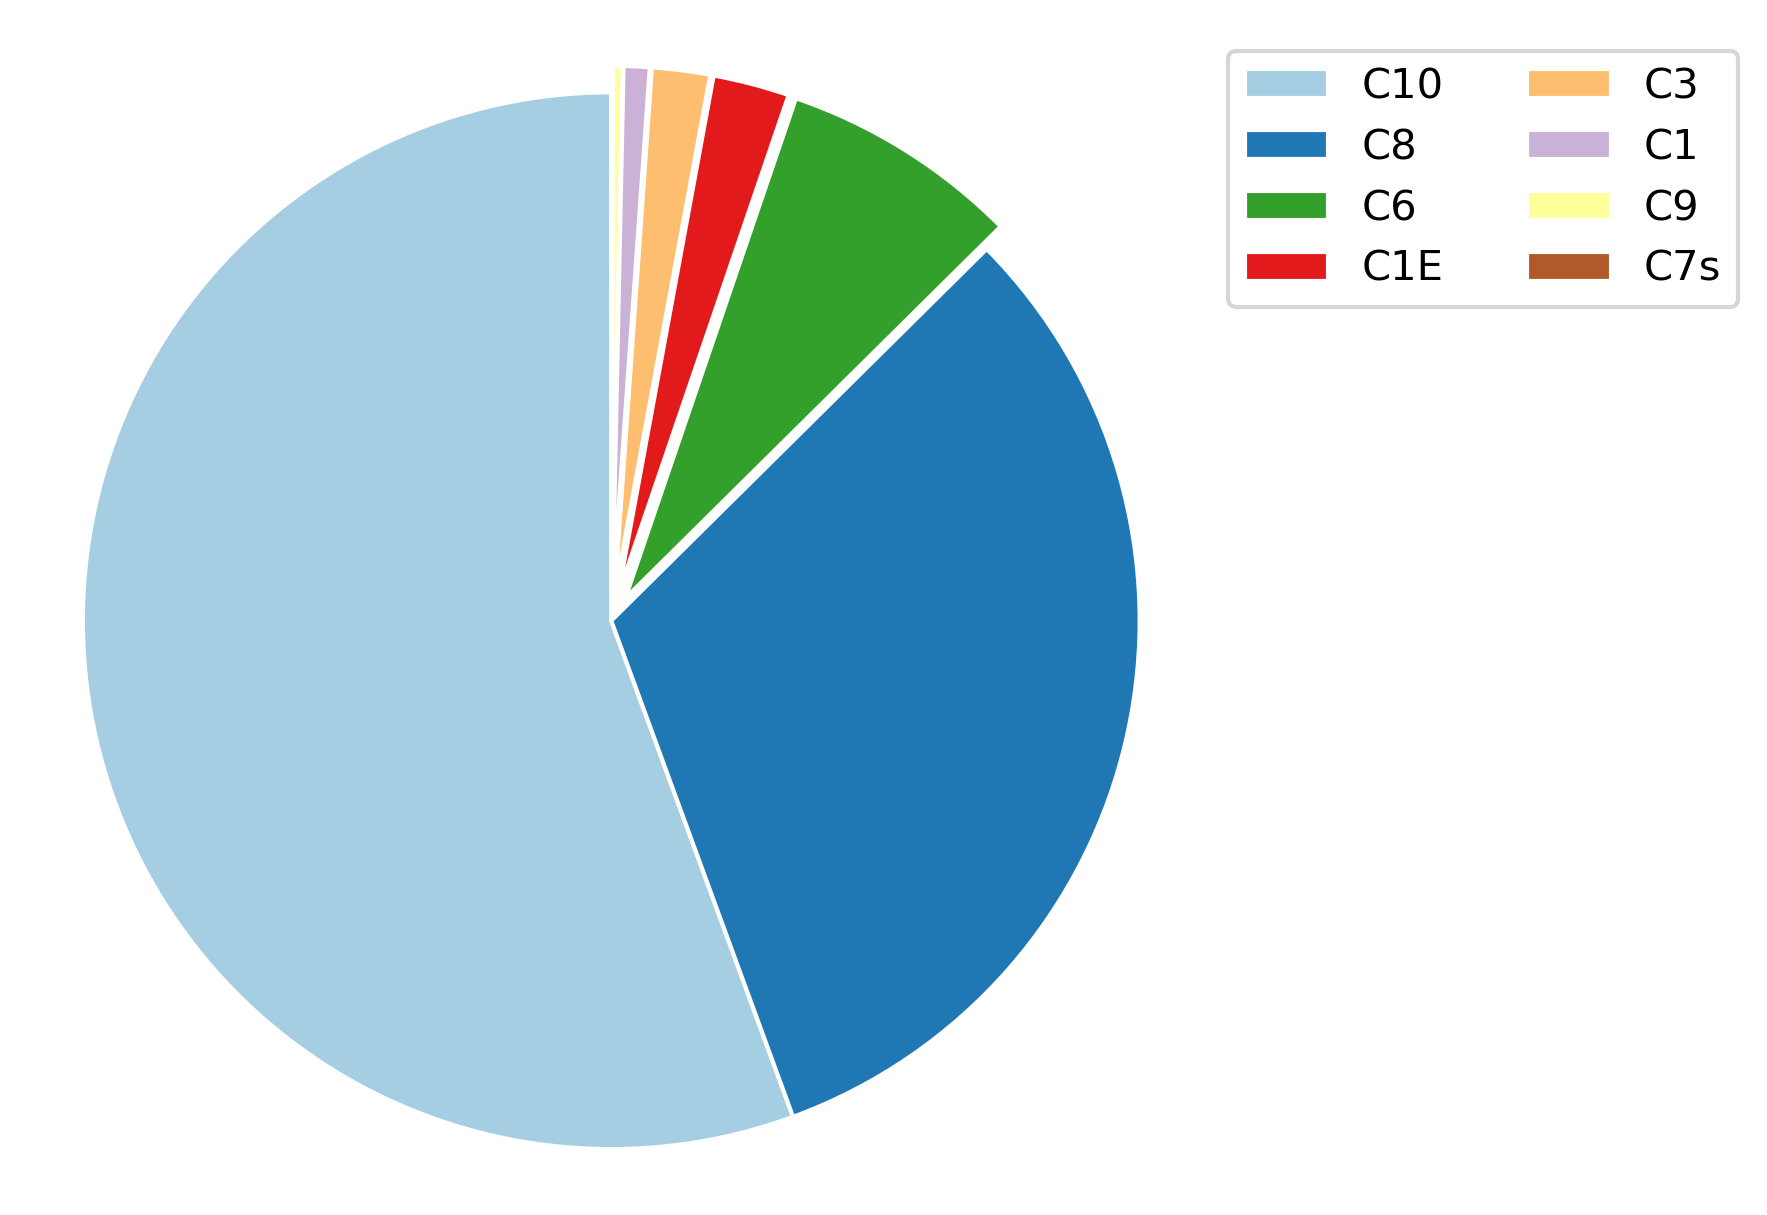
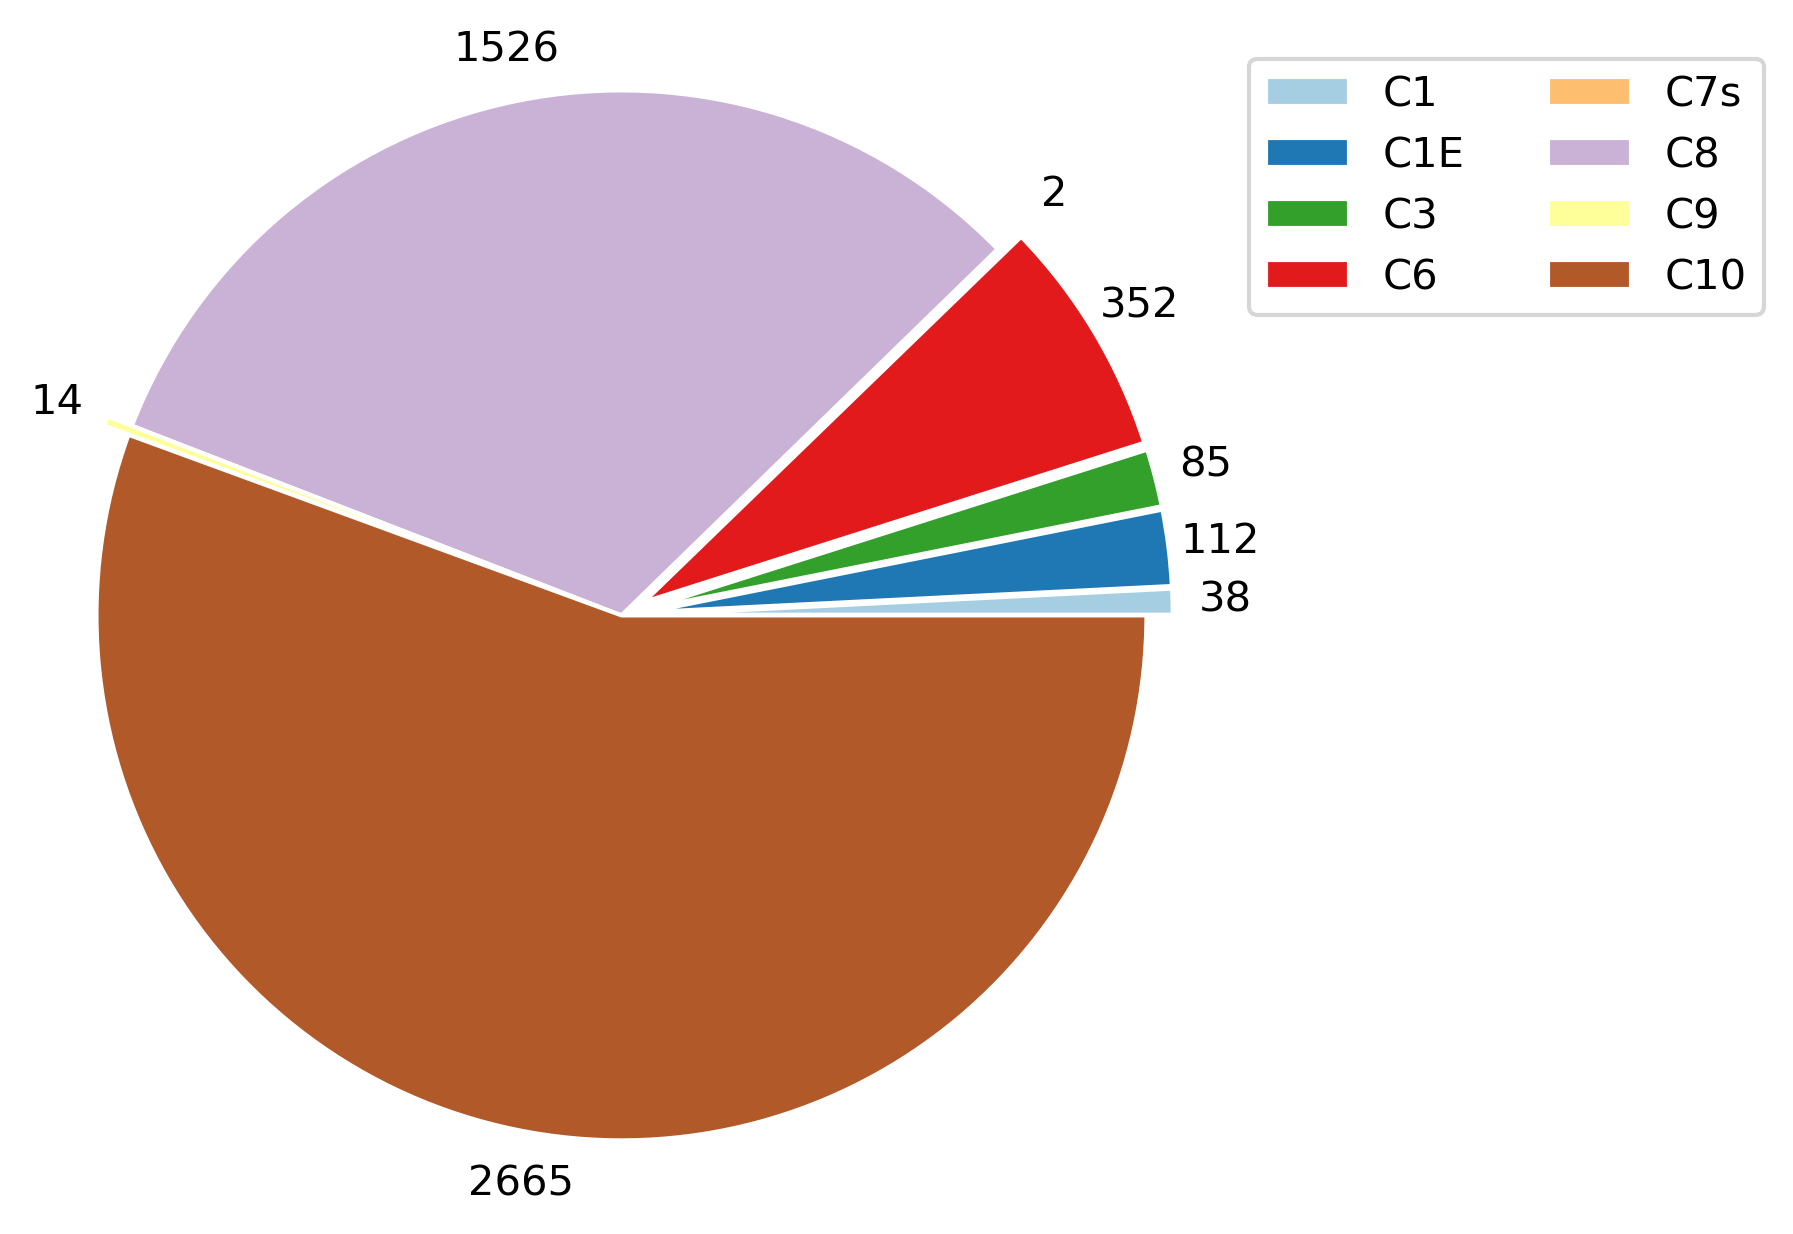
idle-gov: pie entry add absolute value print

diff --git a/images/idle-governor/idle-governor-cstate-pie.py b/images/idle-governor/idle-governor-cstate-pie.py
@@ -4,6 +4,7 @@ import os
 import pandas as pd
 import numpy as np
 import matplotlib.pyplot as plt
+import re
 
 FILE_BASE = os.path.splitext(__file__)[0]
 FILE_DATA = FILE_BASE + ".txt"
@@ -12,25 +13,27 @@ FILE_PDF  = FILE_BASE + ".pdf"
 
 lineprops = {"linewidth": 1, "edgecolor": "white"}
 
-df = pd.read_csv(FILE_DATA, delim_whitespace=True, usecols=['C-State'])
-grouped_data = df.groupby('C-State')['C-State'].count().sort_values(ascending=False)
-colors = plt.get_cmap('Paired')(np.linspace(0, 1, len(grouped_data)))
+# Alphanumeric sort for C-States
+def cstate_key(cstate):
+    return [int(text) if text.isdigit() else text.lower() for text in re.split('([0-9]+)', str(cstate))]
 
 def label_print(pct, allvals):
-    absolute = int(round(pct/100.*sum(allvals)))
-    return ""
-    # Temporarily remove label print
-    #return "{:.1f}%\n({:d})".format(pct, absolute)
+    return str(round(pct/100.*sum(allvals)))
+
+df = pd.read_csv(FILE_DATA, delim_whitespace=True, usecols=['C-State'])
+grouped_data = df.groupby('C-State')['C-State'].count().reset_index(name='Entries')
+grouped_data = grouped_data.iloc[grouped_data['C-State'].apply(cstate_key).argsort()]
+colors = plt.get_cmap('Paired')(np.linspace(0, 1, len(grouped_data)))
 
 fig, ax = plt.subplots(figsize=(5, 5))
 
-labels=grouped_data.index
-total_entries = sum(grouped_data.values)
+labels = grouped_data['C-State']
+total_entries = grouped_data['Entries'].sum()
 threshold = (20 * total_entries) / 100
-explode_arr = [0.05 if dat < threshold else 0 for dat in grouped_data.values]
-ax.pie(grouped_data,
-        autopct=lambda pct: label_print(pct, grouped_data),
-        startangle=90, wedgeprops=lineprops, pctdistance=1.15, explode=explode_arr, colors=colors)
+explode_arr = [0.05 if dat < threshold else 0 for dat in grouped_data['Entries']]
+ax.pie(grouped_data['Entries'],
+        autopct=lambda pct: label_print(pct, grouped_data['Entries']),
+        wedgeprops=lineprops, pctdistance=1.1, explode=explode_arr, colors=colors)
 ax.axis('equal')
 plt.legend(labels, loc='upper center', bbox_to_anchor=(1, 0, 0.5, 1), ncol=2)
 
